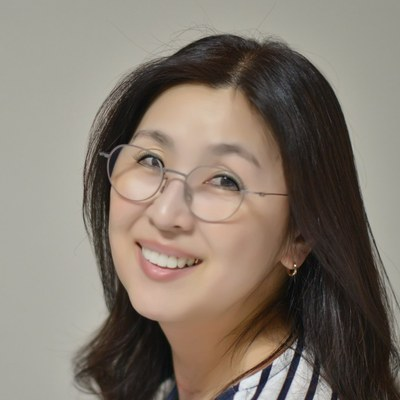
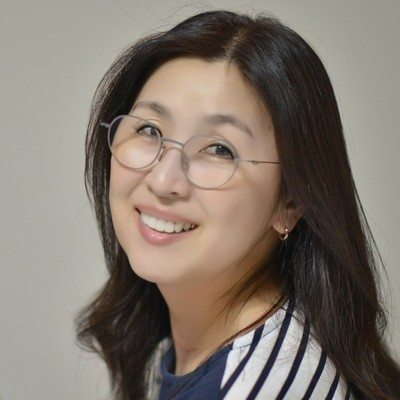
교회 소개: 섬김 카드 사진을 쇄골까지 보이도록 다시 자름
Claude-Session: https://claude.ai/code/session_0148xjk2b9puS3g6WWgEub1z

diff --git a/about.html b/about.html
@@ -508,9 +508,9 @@ a:focus-visible,button:focus-visible{outline:2px solid #0360C2;outline-offset:2p
 </div>
 </div>
 <h3 class="tm-sub"><span>MOKJANG</span>목장</h3>
-<div class="tm-grid"><div class="tm-card"><img src="assets/home/kwaksangmi.jpg" alt="여자장년 목자 곽상미 사모" class="tm-photo" loading="lazy"><span class="tm-role">여자장년 목자</span><span class="tm-name">곽상미 <small>사모</small></span><span class="tm-desc">여자장년 목장을 이끌며 서로의 삶을 돌봐요</span></div><div class="tm-card"><span class="tm-photos"><img src="assets/home/leejiwook.jpg" alt="청장년 목자 이지욱 집사" class="tm-photo" loading="lazy"><img src="assets/home/leesera.jpg" alt="청장년 목자 이세라 집사" class="tm-photo" loading="lazy"></span><span class="tm-role">청장년 목자</span><span class="tm-name">이지욱 · 이세라 <small>집사</small></span><span class="tm-desc">청장년 부부들과 함께 삶과 믿음을 나눠요</span></div><div class="tm-card"><span class="tm-photos"><img src="assets/home/limdohyung-sq.jpg" alt="청년 목자 임도형 전도사" class="tm-photo" loading="lazy"><img src="assets/home/kimsara.jpg" alt="청년 목자 김사라" class="tm-photo" loading="lazy"></span><span class="tm-role">청년 목자</span><span class="tm-name">임도형 <small>전도사</small> · 김사라</span><span class="tm-desc">청년들과 함께 말씀 앞에서 묻고 삶을 나눠요</span></div></div>
+<div class="tm-grid"><div class="tm-card"><img src="assets/home/kwaksangmi.jpg?v=2" alt="여자장년 목자 곽상미 사모" class="tm-photo" loading="lazy"><span class="tm-role">여자장년 목자</span><span class="tm-name">곽상미 <small>사모</small></span><span class="tm-desc">여자장년 목장을 이끌며 서로의 삶을 돌봐요</span></div><div class="tm-card"><span class="tm-photos"><img src="assets/home/leejiwook.jpg" alt="청장년 목자 이지욱 집사" class="tm-photo" loading="lazy"><img src="assets/home/leesera.jpg?v=2" alt="청장년 목자 이세라 집사" class="tm-photo" loading="lazy"></span><span class="tm-role">청장년 목자</span><span class="tm-name">이지욱 · 이세라 <small>집사</small></span><span class="tm-desc">청장년 부부들과 함께 삶과 믿음을 나눠요</span></div><div class="tm-card"><span class="tm-photos"><img src="assets/home/limdohyung-sq.jpg?v=2" alt="청년 목자 임도형 전도사" class="tm-photo" loading="lazy"><img src="assets/home/kimsara.jpg" alt="청년 목자 김사라" class="tm-photo" loading="lazy"></span><span class="tm-role">청년 목자</span><span class="tm-name">임도형 <small>전도사</small> · 김사라</span><span class="tm-desc">청년들과 함께 말씀 앞에서 묻고 삶을 나눠요</span></div></div>
 <h3 class="tm-sub"><span>MINISTRY</span>기관</h3>
-<div class="tm-grid"><div class="tm-card"><img src="assets/home/parkyounghee.jpg" alt="주일학교 박영희 사모" class="tm-photo" loading="lazy"><span class="tm-role">주일학교</span><span class="tm-name">박영희 <small>사모</small></span><span class="tm-desc">주일학교를 맡아 아이들이 말씀 안에서 자라도록 섬겨요</span></div><div class="tm-card"><img src="assets/home/leejiwook.jpg" alt="재정위원 이지욱 집사" class="tm-photo" loading="lazy"><span class="tm-role">재정위원</span><span class="tm-name">이지욱 <small>집사</small></span><span class="tm-desc">교회 재정과 운영을 투명하게 섬겨요</span></div><div class="tm-card"><img src="assets/home/leesera.jpg" alt="새가족 담당 이세라 집사" class="tm-photo" loading="lazy"><span class="tm-role">새가족 담당</span><span class="tm-name">이세라 <small>집사</small></span><span class="tm-desc">처음 오신 분을 맞이하고 정착을 도와요</span></div></div>
+<div class="tm-grid"><div class="tm-card"><img src="assets/home/parkyounghee.jpg" alt="주일학교 박영희 사모" class="tm-photo" loading="lazy"><span class="tm-role">주일학교</span><span class="tm-name">박영희 <small>사모</small></span><span class="tm-desc">주일학교를 맡아 아이들이 말씀 안에서 자라도록 섬겨요</span></div><div class="tm-card"><img src="assets/home/leejiwook.jpg" alt="재정위원 이지욱 집사" class="tm-photo" loading="lazy"><span class="tm-role">재정위원</span><span class="tm-name">이지욱 <small>집사</small></span><span class="tm-desc">교회 재정과 운영을 투명하게 섬겨요</span></div><div class="tm-card"><img src="assets/home/leesera.jpg?v=2" alt="새가족 담당 이세라 집사" class="tm-photo" loading="lazy"><span class="tm-role">새가족 담당</span><span class="tm-name">이세라 <small>집사</small></span><span class="tm-desc">처음 오신 분을 맞이하고 정착을 도와요</span></div></div>
 </div>
 </section>
 
